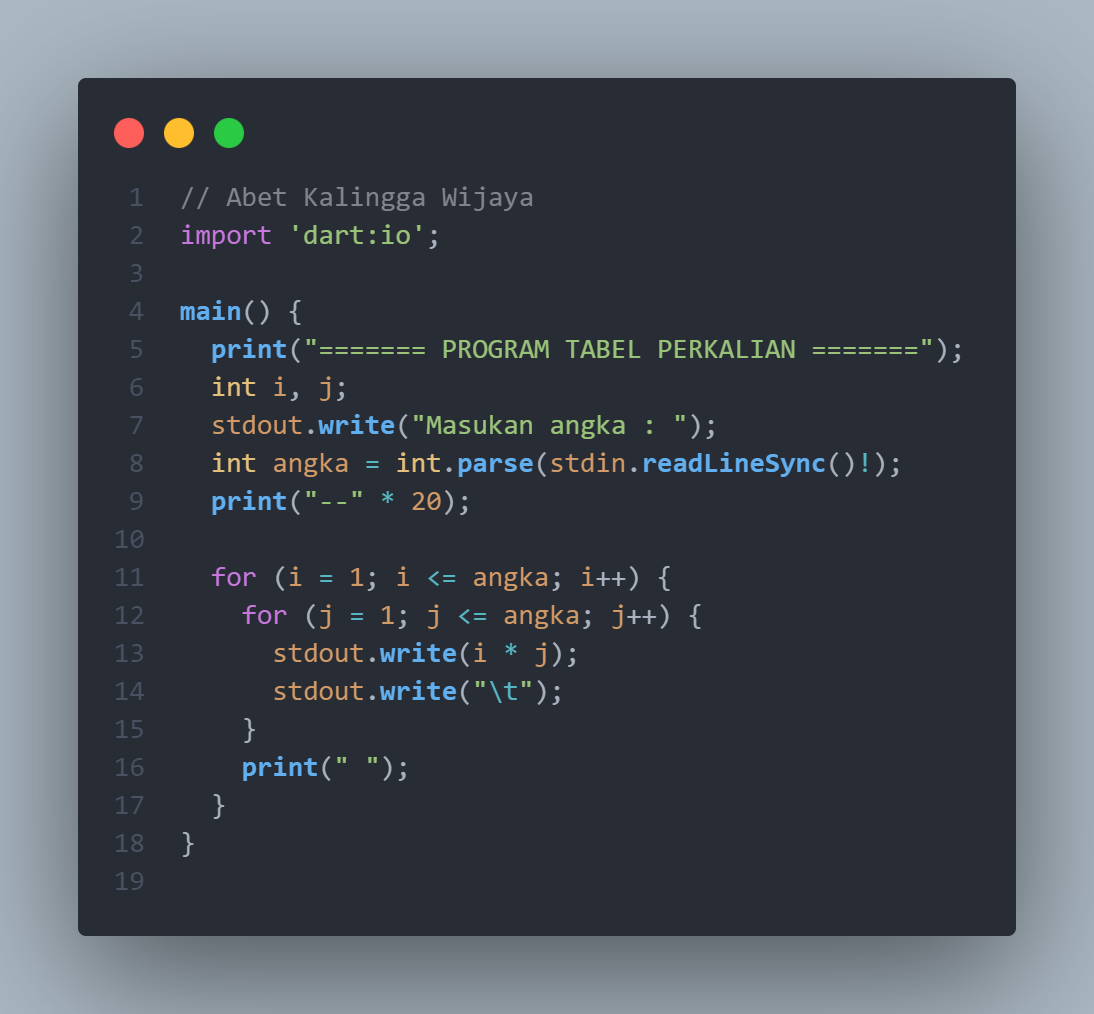
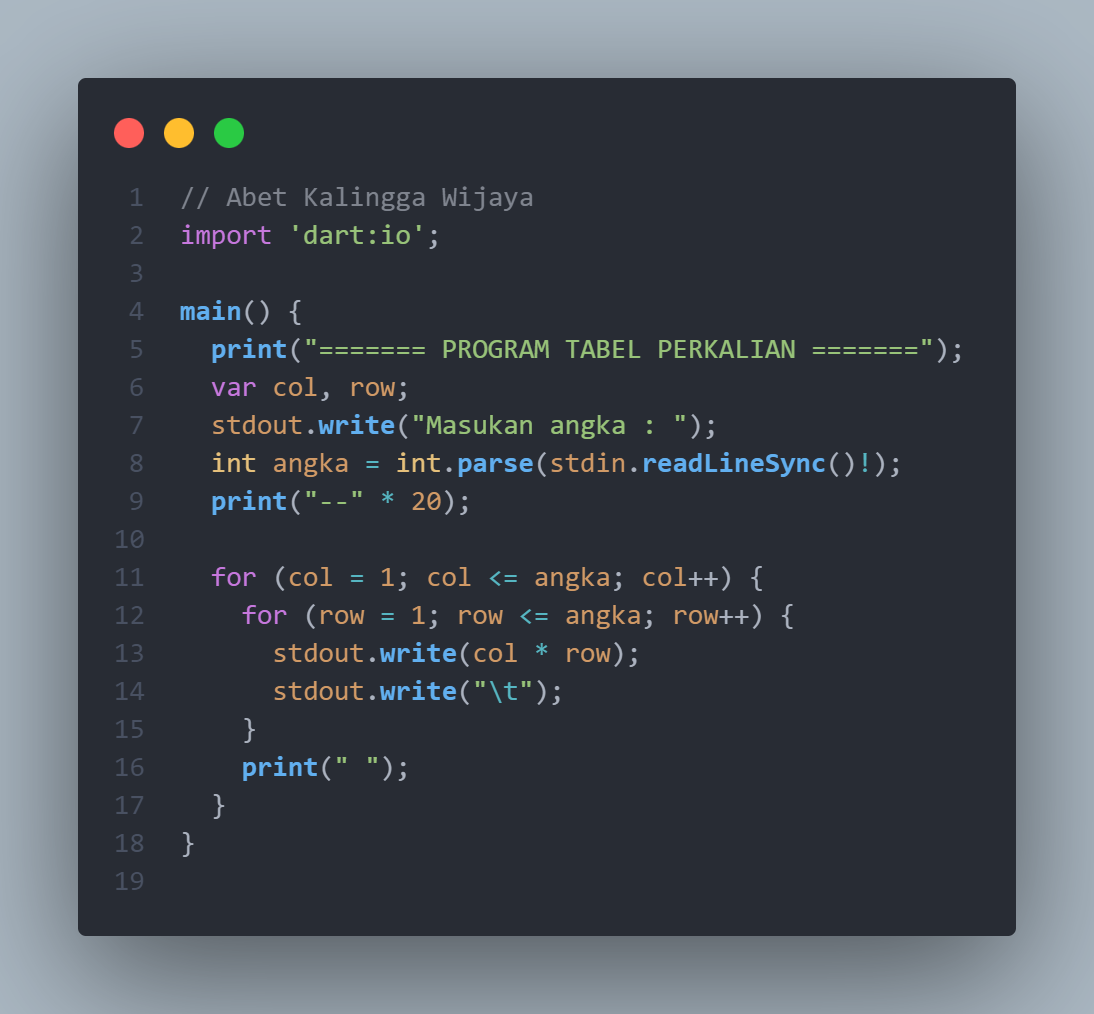
Update code SoalEksplorasi_2.dart

Changed region(s): [[0.2486, 0.5503, 0.6837, 0.6726], [0.1865, 0.3669, 0.3729, 0.3974]]

diff --git a/7_Branching Looping Function/Praktikum/Soal Eksplorasi/SoalEksplorasi_2.dart b/7_Branching Looping Function/Praktikum/Soal Eksplorasi/SoalEksplorasi_2.dart
@@ -3,14 +3,14 @@ import 'dart:io';
 
 main() {
   print("======= PROGRAM TABEL PERKALIAN =======");
-  int i, j;
+  var col, row;
   stdout.write("Masukan angka : ");
   int angka = int.parse(stdin.readLineSync()!);
   print("--" * 20);
 
-  for (i = 1; i <= angka; i++) {
-    for (j = 1; j <= angka; j++) {
-      stdout.write(i * j);
+  for (col = 1; col <= angka; col++) {
+    for (row = 1; row <= angka; row++) {
+      stdout.write(col * row);
       stdout.write("\t");
     }
     print(" ");
